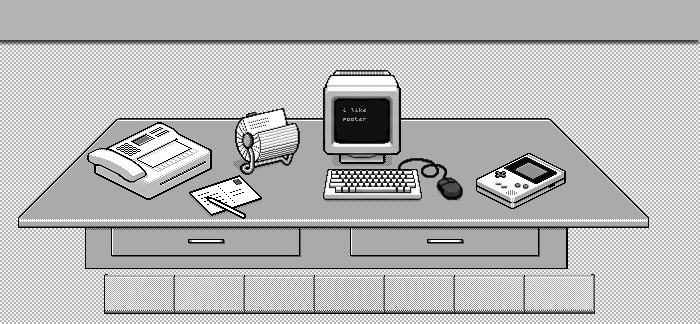
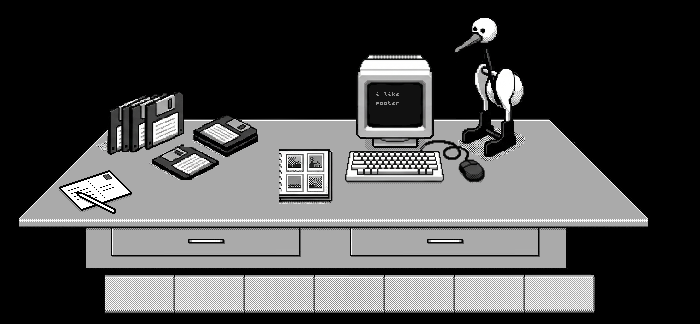
Frontend-blackbackground

diff --git a/index.html b/index.html
@@ -10,8 +10,8 @@
     <!-- Full-viewport background image; blurs when a notebook is open -->
     <div id="page-bg" class="page-bg"></div>
 
-    <p>Hi! Welcome to my website. It's currently under construction. <br>The last update was made
-        5/21/26. I need to work on this splash page. <br>In the meantime, click on these buttons and see what I've been making!
+    <p style="color:white; padding-top:20px; padding-left:20px;">Hi! Welcome to my website. It's currently under construction. <br>The last update was made
+        5/28/26. This splash page is currently being developed. <br>In the meantime, click on these buttons and see what I've been making!
     </p>
     <!-- Main page content -->
     <div class="page-container"></div>